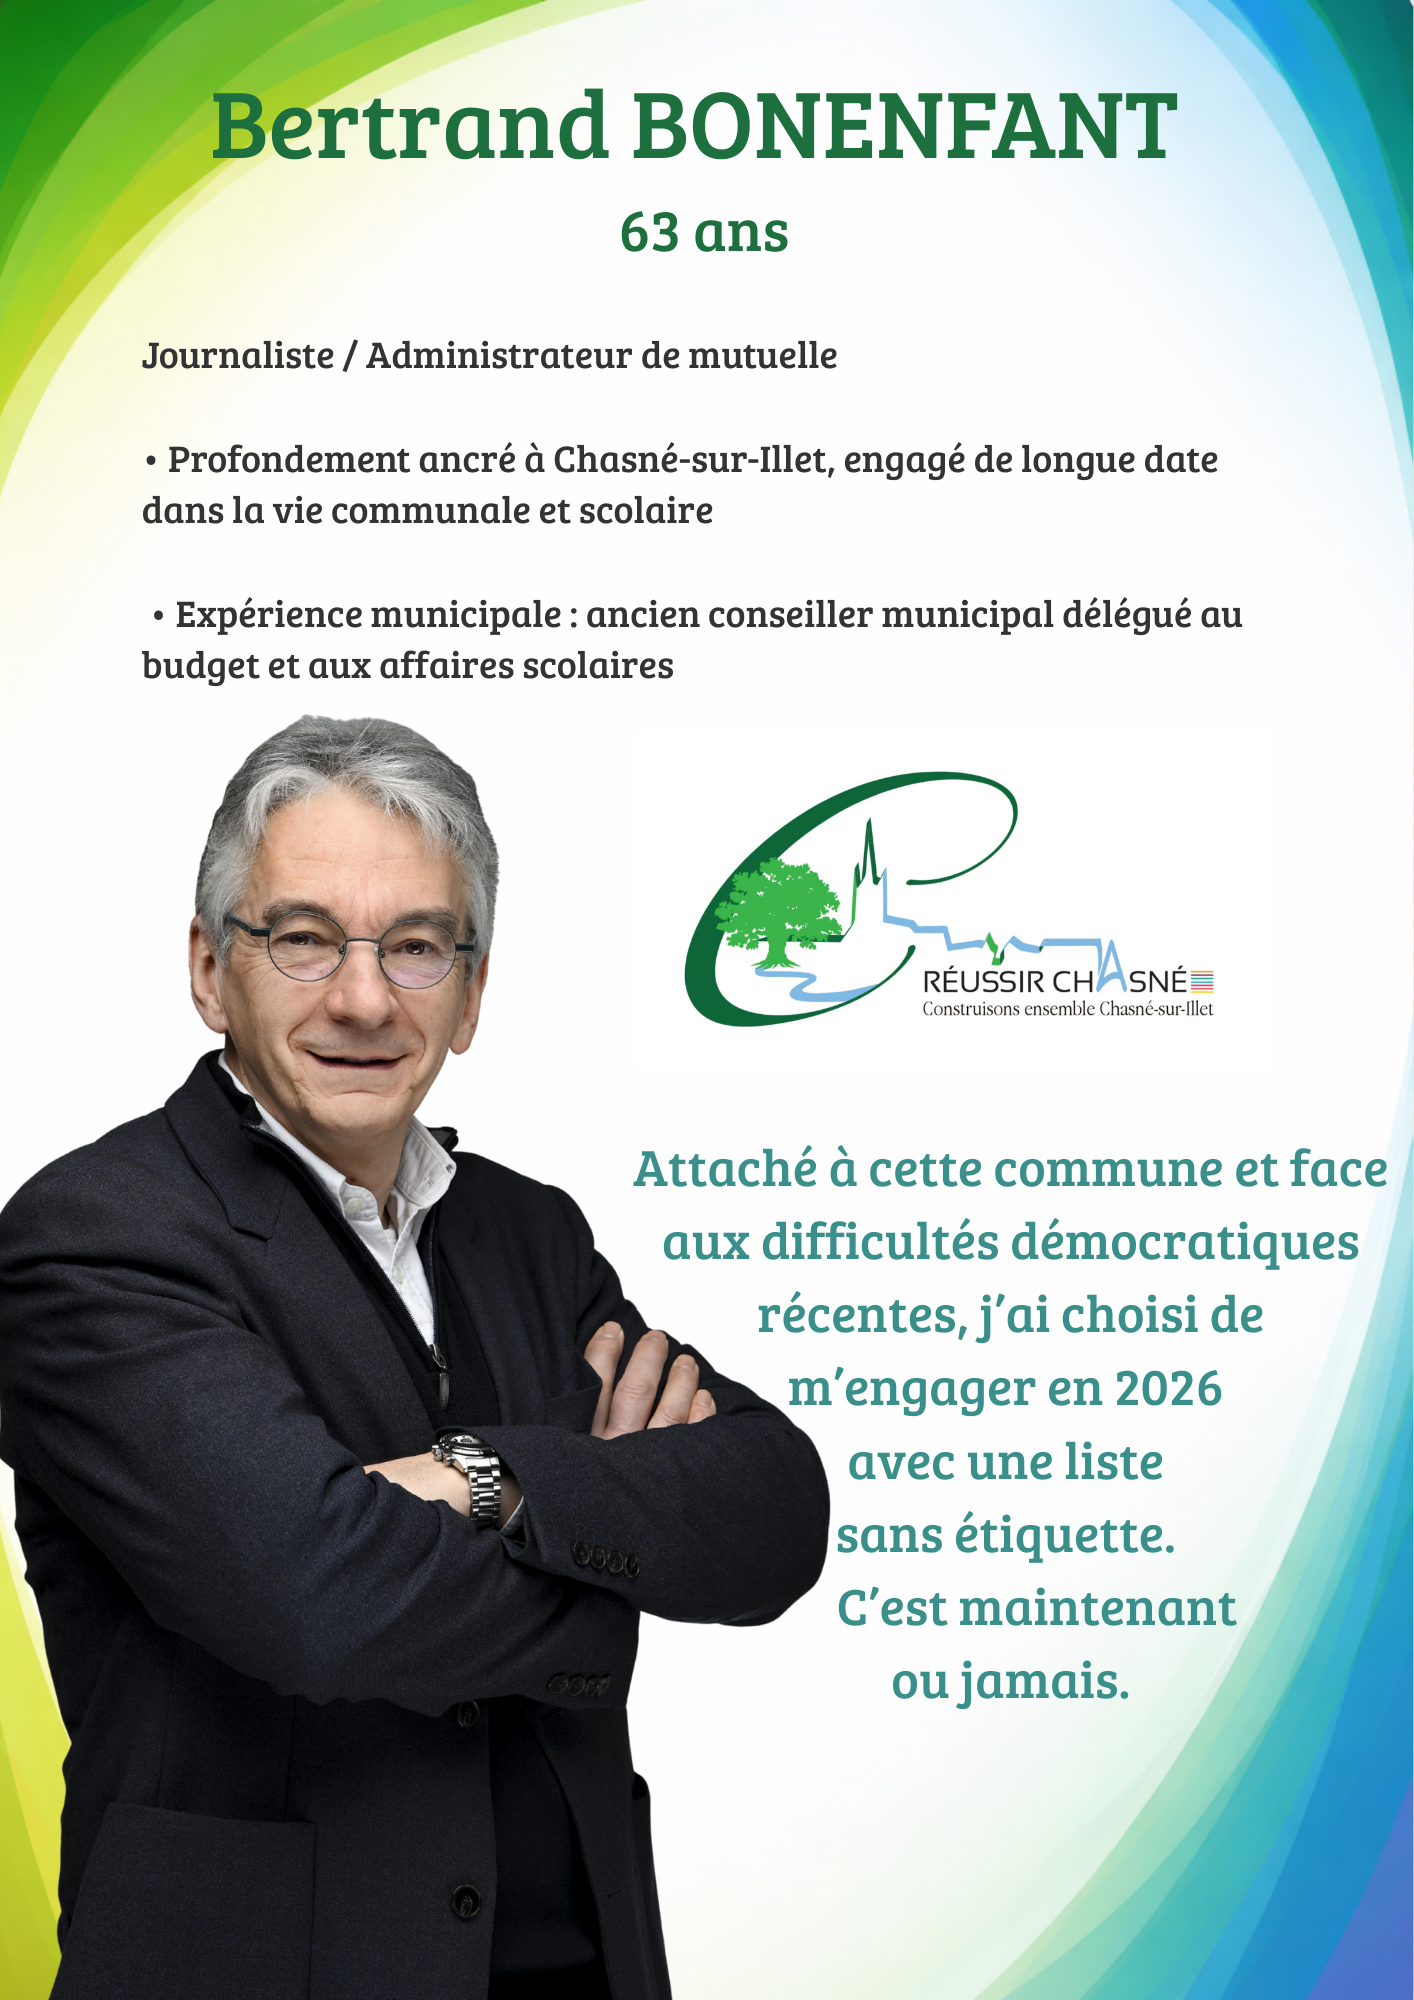
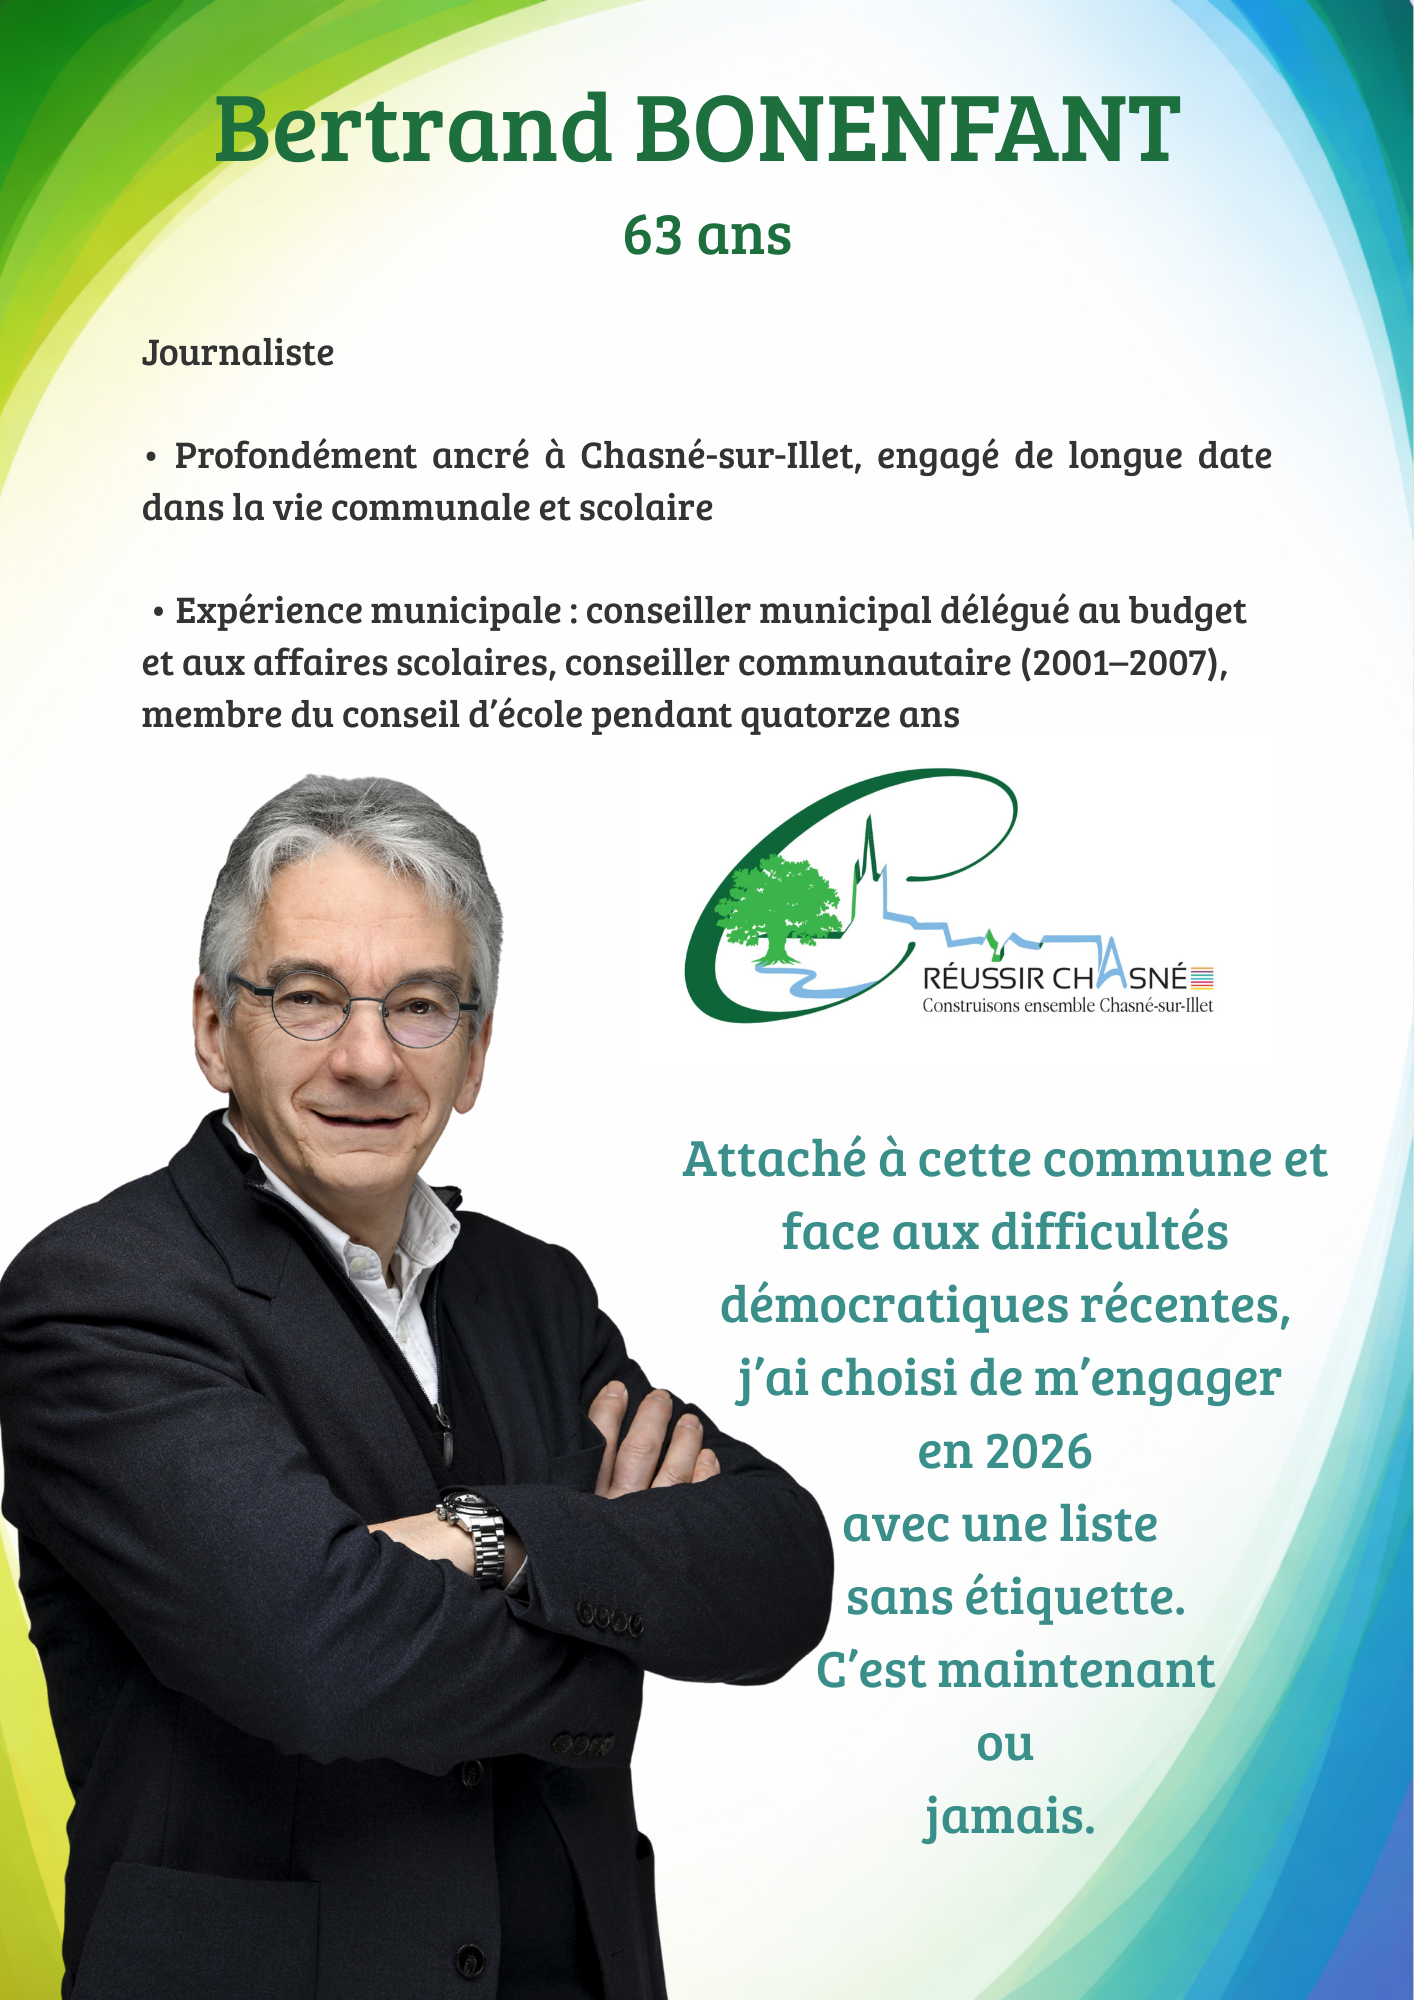
modification de certaine ligne et image colistier

diff --git a/index.html b/index.html
@@ -322,7 +322,7 @@
             <div class="profile__body">
               <p class="profile__kicker">Tête de liste • Municipales 2026</p>
               <h2 class="profile__name">Bertrand Bonenfant</h2>
-              <p class="profile__meta">Journaliste • Administrateur de mutuelle • 63 ans</p>
+              <p class="profile__meta">Journaliste • 63 ans</p>
 
               <p class="profile__text">
                 Sa famille est enracinée à Chasné-sur-Illet depuis des générations.
@@ -331,8 +331,9 @@
 
               <p class="profile__text">
                 Père de quatre enfants, il a été membre de l’association des parents d’élèves (1993–2007),
-                représentant des parents au conseil d’école pendant 8 ans, puis conseiller municipal délégué
-                au budget et aux affaires scolaires (2001–2007).
+                membre du conseil d'école pendant quatorze an,
+                conseiller municipal délégué au budget et aux affaires scolaires (2001–2007)
+                puis conseiller communautaire de 2001 à 2007.
               </p>
 
               <div class="profile__cta" aria-label="Actions liées à Bertrand Bonenfant">

diff --git a/equipe.html b/equipe.html
@@ -117,7 +117,7 @@
           <div class="profile__body">
             <p class="profile__kicker">Réussir Chasné 2026</p>
             <h3 class="profile__name">Bertrand Bonenfant</h3>
-            <p class="profile__meta">Journaliste • Administrateur de mutuelle • 63 ans</p>
+            <p class="profile__meta">Journaliste • 63 ans</p>
 
             <p class="profile__text">
               Bertrand Bonenfant est journaliste et administrateur de mutuelle. Sa famille est enracinée
@@ -282,10 +282,10 @@
           <!-- 10 -->
           <article class="photo-card team-card" role="listitem">
             <button class="team-card__btn" type="button"
-              data-src="assets/img/equipe/colistier.webp"
+              data-src="assets/img/equipe/Bruno_FOLLIGOT.webp"
               data-alt="Colistier — Nom Prénom">
               <img class="team-card__img"
-                 src="assets/img/equipe/colistier.webp"
+                 src="assets/img/equipe/Bruno_FOLLIGOT.webp"
                  alt="Colistier — Nom Prénom"
                  loading="lazy" decoding="async"
                 width="900" height="1200">
